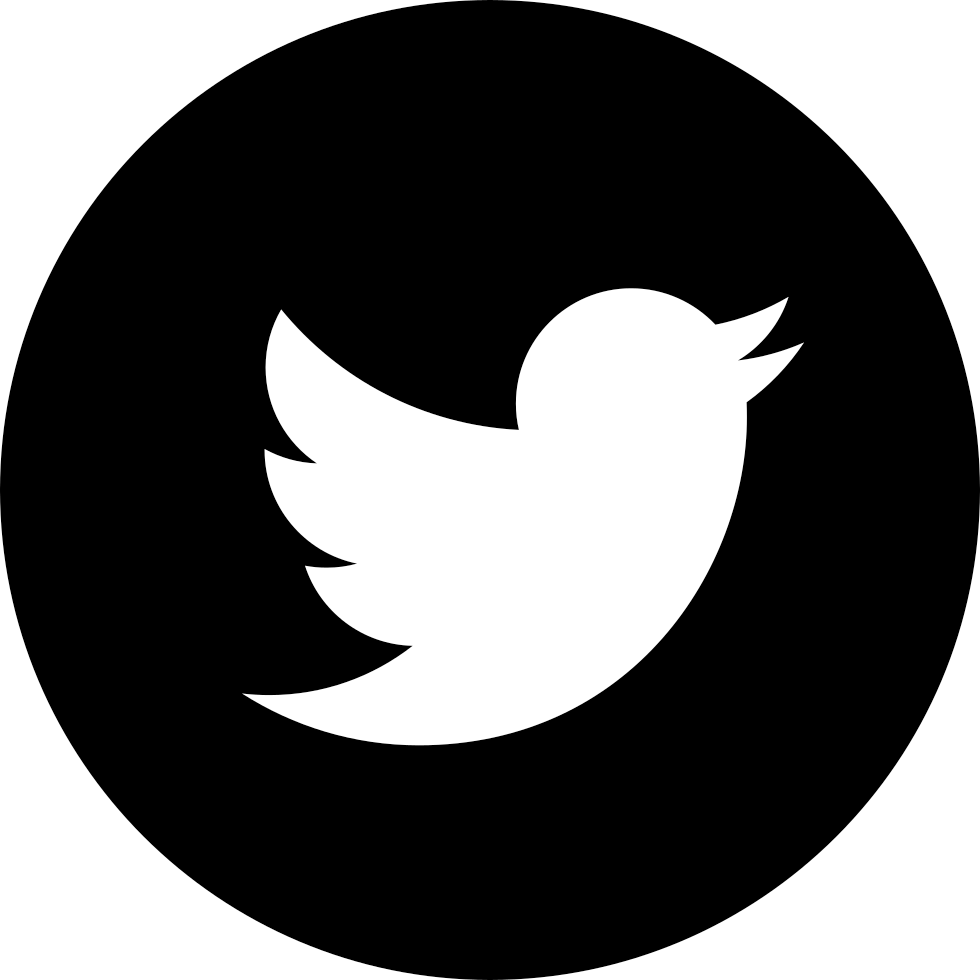
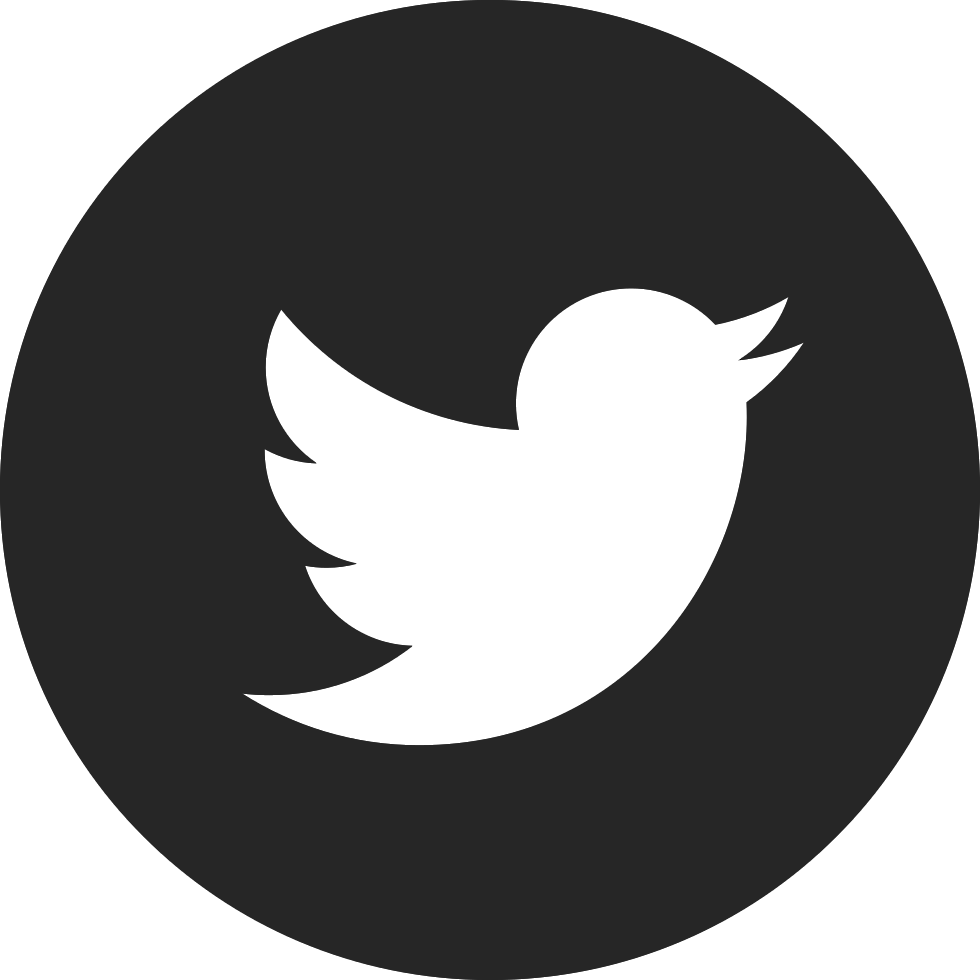
updt

diff --git a/css/collection-css.css b/css/collection-css.css
@@ -150,9 +150,14 @@ ul{
     text-align: center;
     font-family: 'Bebas Neue', cursive;
     font-size: 20px;
+    color: #262626;
     letter-spacing: 8px;
 
     background-color: white;
+}
+
+.follow-txt{  
+    margin-left: 10px;
 }
 
 .follow-inner{

diff --git a/css/style.css b/css/style.css
@@ -280,8 +280,13 @@ ul{
       font-family: 'Bebas Neue', cursive;
       font-size: 20px;
       letter-spacing: 8px;
+      color: #262626;
 
       background-color: white;
+  }
+
+  .follow-txt{  
+      margin-left: 10px;
   }
 
   .follow-inner{
